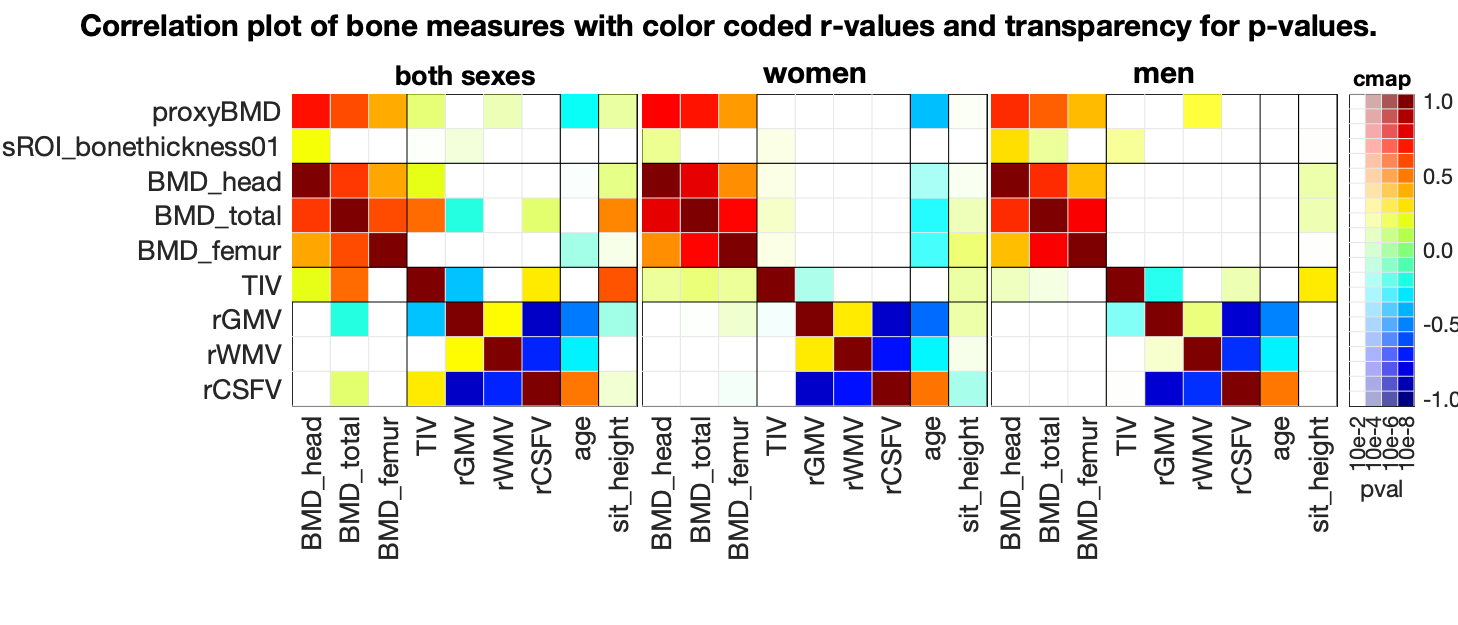
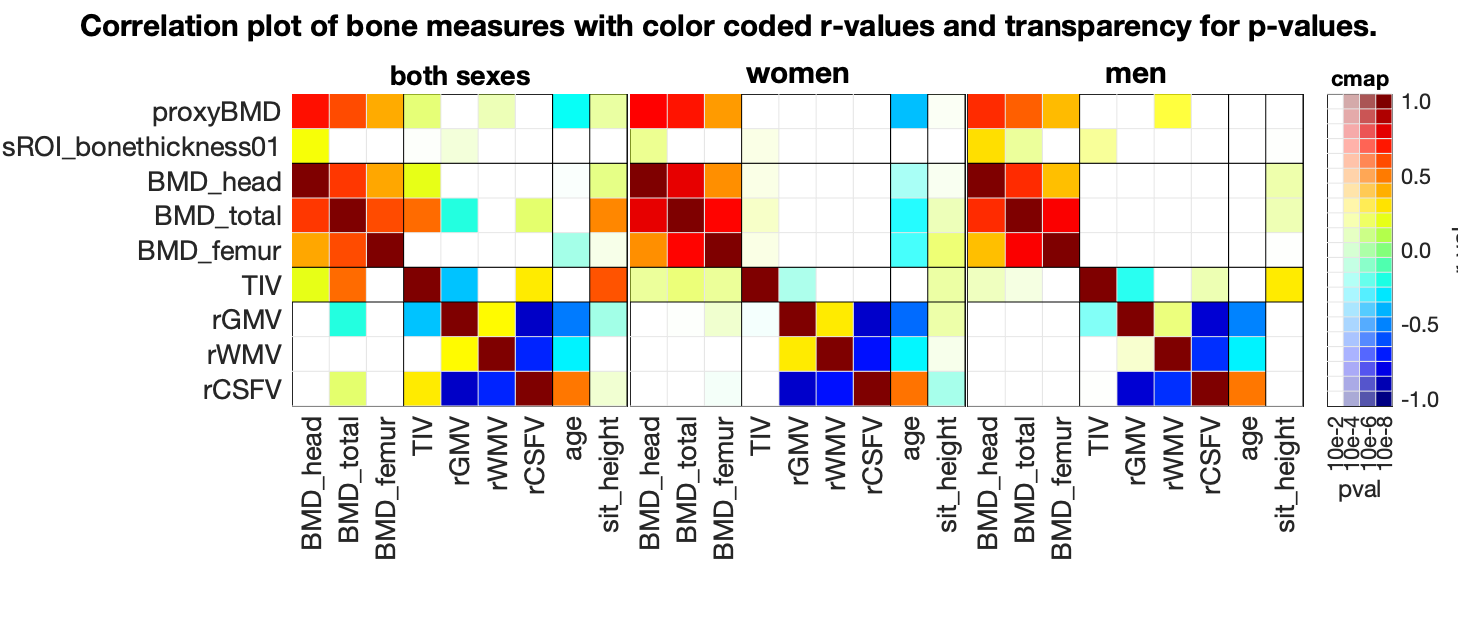
Size corrections

Changed region(s): [[0.216, 0.0912, 1.0, 0.912]]

diff --git a/evaluation/HBM_2024/HBM_boney_table.m b/evaluation/HBM_2024/HBM_boney_table.m
@@ -46,7 +46,7 @@ use_vals   = {
 
 
 % loop over the cases defined per use_vals rows
-for uvi = 1 %:size(use_vals,1)
+for uvi = 1:size(use_vals,1)
   %% prepare smaller tables
   men_corr2   = men_corr(   [1 1+use_vals{uvi,1}] , [1 1+use_vals{uvi,2}])'; 
   men_pval2   = men_pval(   [1 1+use_vals{uvi,1}] , [1 1+use_vals{uvi,2}])'; 
@@ -57,7 +57,7 @@ for uvi = 1 %:size(use_vals,1)
 
   % create figure
   fg = 11; fgh = figure(fg);  clf(fg);  fgh.Color = [1 1 1];  colormap(jet);
-  fgh.Position(3:4) = [100 + 60*size( men_corr2 ,1 )   100 + 20*size( men_corr2 ,1 ) ]; 
+  fgh.Position(3:4) = [100 + 60*size( men_corr2 ,2 )   100 + 20*size( men_corr2 ,1 ) ]; 
 
   % title 
   ha = annotation('textbox',[0.005 0.92 0.99 0.08],'string',...
@@ -70,7 +70,7 @@ for uvi = 1 %:size(use_vals,1)
   
 
   % plot for both sexes - print a matix a a specific position 
-  sb1 = subplot('Position', [0.20  0.45 - 0.01*size( men_corr2 ,1 )  0.237   .3 + 0.02*size( men_corr2 ,1 ) ]); hold on
+  sb1 = subplot('Position', [0.20  0.45 - 0.01*size( men_corr2 ,1 )  0.23   .3 + 0.02*size( men_corr2 ,1 ) ]); hold on
   im                      = imagesc( cell2mat(both_corr2(2:end,2:end)) ); 
   im.AlphaData            = min(1,max(0,1/6 * log10(10e-2 ./ cell2mat(both_pval2(2:end,2:end) )))); 
   for uvix = 1:size(men_corr2,1),  plot([uvix uvix]+.5,[1 22]-.5,'Color',[0.9 0.9 0.9]); end
@@ -92,7 +92,7 @@ for uvi = 1 %:size(use_vals,1)
   
 
   % women
-  sb2 = subplot('Position', sb1.Position + [0.24 0 0 0]); hold on
+  sb2 = subplot('Position', sb1.Position + [0.232 0 0 0]); hold on
   im                      = imagesc( cell2mat(women_corr2(2:end,2:end)) ); 
   im.AlphaData            = min(1,max(0,1/6 * log10(10e-2 ./ cell2mat(women_pval2(2:end,2:end))) )); 
   for uvix = 1:size(men_corr2,1),  plot([uvix uvix]+.5,[1 22]-.5,'Color',[0.9 0.9 0.9]); end
@@ -111,7 +111,7 @@ for uvi = 1 %:size(use_vals,1)
   
 
   % men 
-  sb3 = subplot('Position', sb2.Position + [0.24 0 0 0]); hold on
+  sb3 = subplot('Position', sb2.Position + [0.232 0 0 0]); hold on
   im                      = imagesc( cell2mat(men_corr2(2:end,2:end)) ); 
   im.AlphaData            = min(1,max(0,1/6 * log10(10e-2 ./ cell2mat(men_pval2(2:end,2:end))) )); 
   for uvix = 1:size(men_corr2,1),  plot([uvix uvix]+.5,[1 22]-.5,'Color',[0.9 0.9 0.9]); end
@@ -132,7 +132,7 @@ for uvi = 1 %:size(use_vals,1)
  
   % Legend with colortable to code the r-values by color and p-values by
   % transparency.
-  subplot('Position',[0.925 sb3.Position(2) 0.045 sb3.Position(4)]); hold on
+  subplot('Position',[0.91 sb3.Position(2) 0.045 sb3.Position(4)]); hold on
   im                      = imagesc( repmat( flip( (-1:.1:1)' ,2 ), 1 , 4) );
   im.AlphaData            = repmat( min(1,max(0,1/6 * log10(10e-2 ./  [10e-2 10e-4 10e-6 10e-8]) )), 21 , 1);   
   ax                      = gca; 
